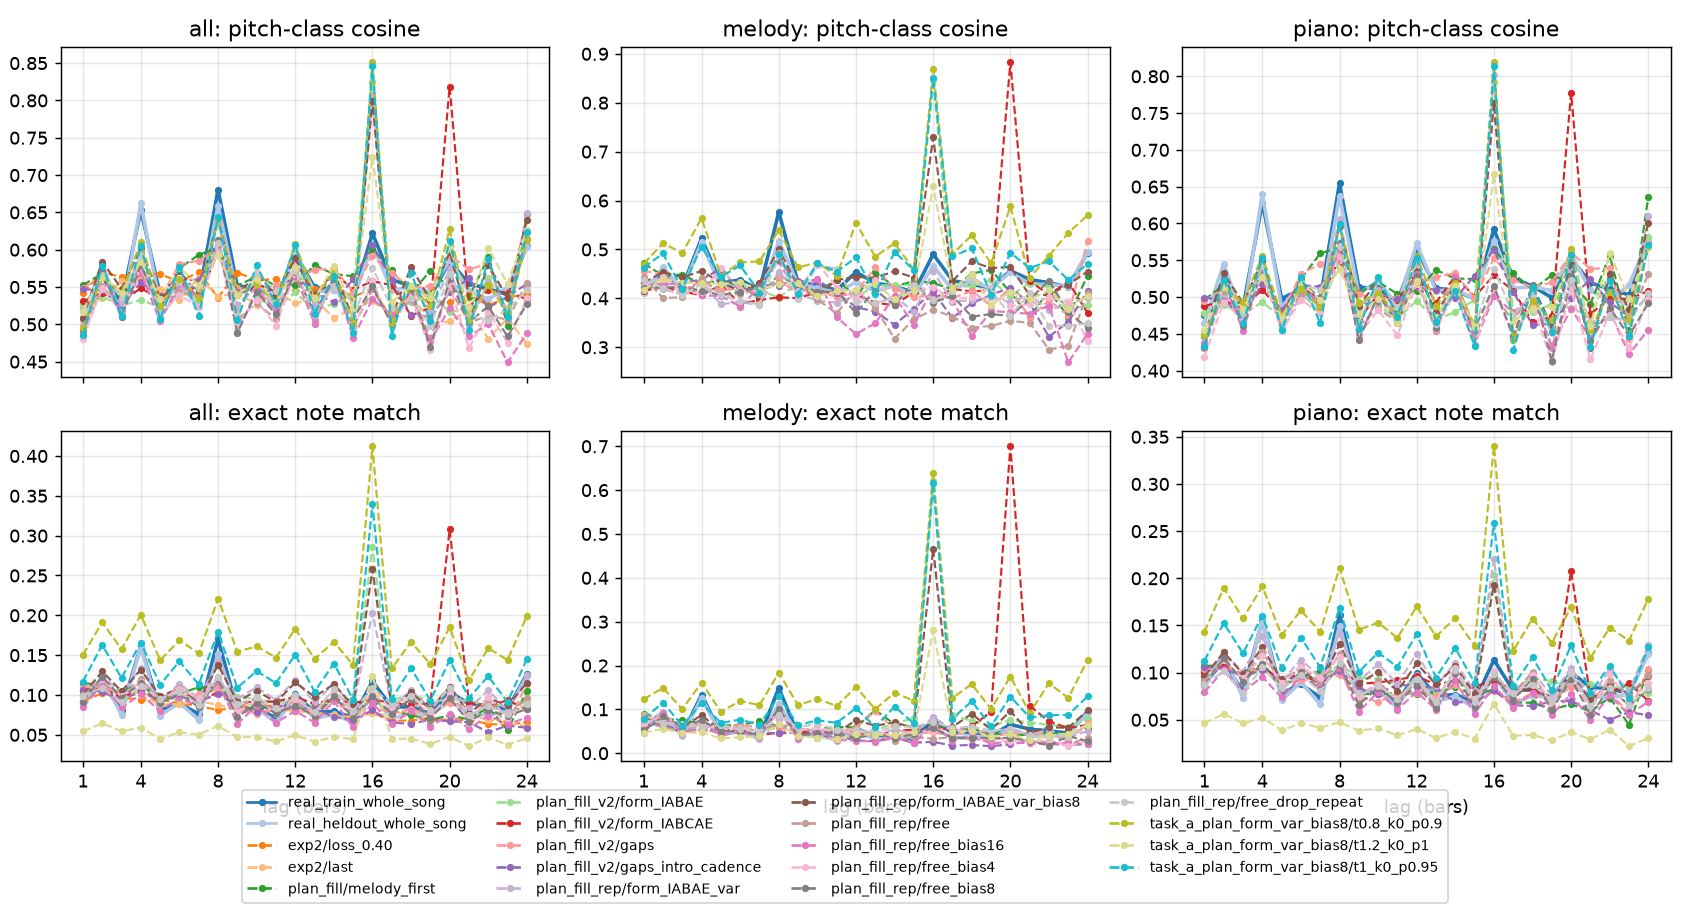
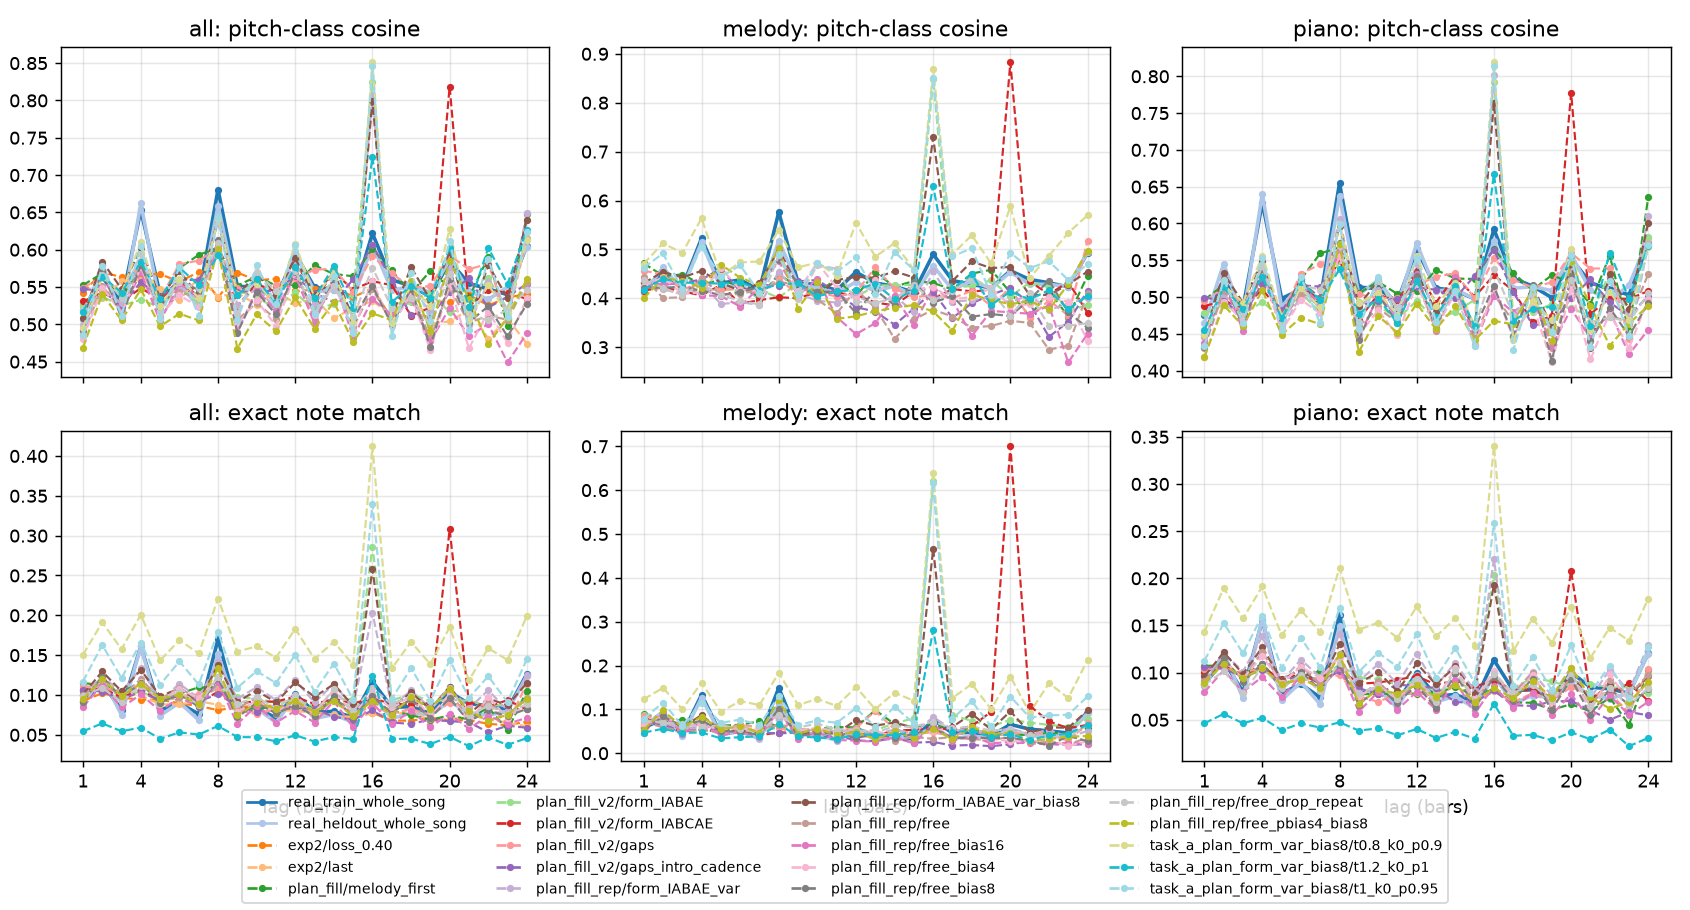
HW2: plan repeat bias results
Claude-Session: https://claude.ai/code/session_01PcNZZXQ6vKS5pZY3T7mU2x

diff --git a/hw2/results/findings.md b/hw2/results/findings.md
@@ -207,6 +207,23 @@ On a melody bar whose plan label is `Rep_<kind>_<L>`, add a logit bonus β to th
 - `form_IABAE_var_bias8`: the melody of A now comes back with changes. Melody theme return 42% of pieces (real 32-bar crops 43%, β 0: 0%, exact copy rule: 100%); exact match at lag 16 0.47 (copy rule 0.62); melody bars 24.3% exact, 13.9% varied, 10.1% rhythm repeats.
 - H1/H4/GS do not move (H4 2.59-2.64, GS 0.96-0.97).
 
+### Plan side: `--plan_repeat_bias` (`PLAN_REPEAT_SLOTS` in `src/hw2/plan_generate.py`)
+
+In POP909 a melody repeat usually keeps its source bar's chords and melody bins; the plan model does not couple them, so the fill bias fights the plan. Share of labelled melody bars whose chords / melody bins equal the source bar's (real: held-out first 32 bars; plans: 20 each, seed 0-19):
+
+| | Real | Plan β 0 | Plan β 4 | Plan β 8 |
+|---|---|---|---|---|
+| exact: chords / melody bins | 0.68 / 0.80 | 0.20 / 0.14 | 0.70 / 0.75 | 0.88 / 0.98 |
+| var | 0.36 / 0.27 | 0.19 / 0.14 | 0.37 / 0.50 | 0.79 / 0.87 |
+| rhythm | 0.15 / 0.40 | 0.18 / 0.19 | 0.10 / 0.85 | 0.18 / 0.93 |
+
+Plan β 4 (bonus on chords + melody bins for exact, half for var, melody bins only for rhythm) brings exact and varied repeats to the real coupling. With fill β 8 (`free_pbias4_bias8`, new plans, same rules as `free`) vs fill β 8 alone (`free_bias8`):
+
+- Asked kind written at the lag 0.34 vs 0.26, any repeat at the lag 0.54 vs 0.44; melody density within one bin 0.96 vs 0.94.
+- Melody exact match at lags 2 / 4 / 8: 0.098 / 0.084 / 0.122 (real 0.095 / 0.127 / 0.112). Lags 2 and 8 are at the real level, lag 4 still low.
+- Piano periodicity stays below real (pitch-class cosine at lag 4 0.51 vs 0.64): the plan's chord pairs repeat at lag 4 in 11-15% of bars vs 22% in POP909. Not addressed.
+- H4 2.59, GS 0.959, sampled NLL 1.32.
+
 ## TASK B with plan-fill (`task_b_plan.csv`, `task_b_plan_fade.csv`, `outputs/task_b_plan/*`)
 
 `make task-b-plan PLAN_CKPT=checkpoints/plan_rep/best FILL_CKPT=checkpoints/fill_rep/best PLAN_RULES="--min_piano_bin 1 --cadence"`: each prompt folder is labelled by the training rules, the plan model continues the 8-bar plan to 32 bars, the fill model writes bars 9-32 after the forced prompt notes. The prompt bars in the output match the TA prompt tokens note for note. One plan per prompt, filled with the same three configs as the main model's `TASK B`. Prompt 001 has no MELODY track; `--melody_by_bar 9` makes the melody enter in bar 9.
